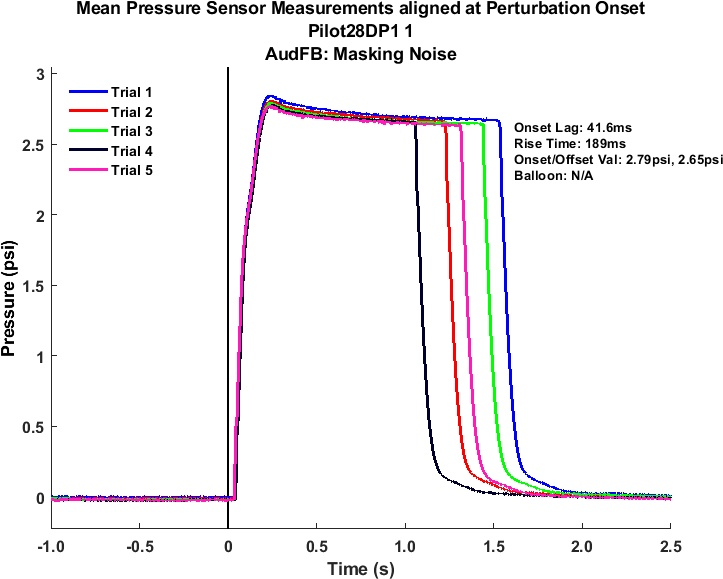
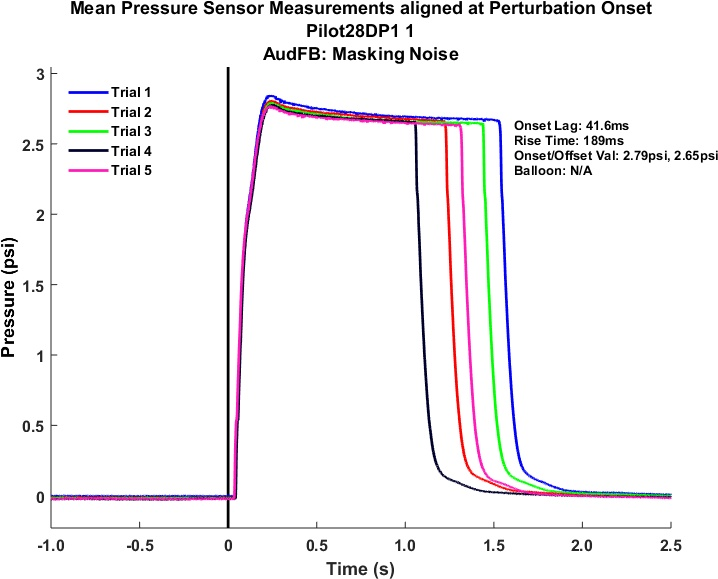
naming convention and fixed title
Making sure that the titles are appropriate without any weird subscripts, and so they dont get cut off

diff --git a/Analysis/dfRunSubjPlotting.m b/Analysis/dfRunSubjPlotting.m
@@ -11,9 +11,9 @@ function dfRunSubjPlotting()
 
 close all;
 sPlt.project       = 'Dissociating-Role-of-Feedback-in-Voice-Motor-Control';
-sPlt.participants  = {'Pilot0'}; %List of multiple participants.
+sPlt.participants  = {'Pilot28'}; %List of multiple participants.
 sPlt.numPart       = length(sPlt.participants);
-sPlt.runs          = {'DP3_1'}; %All runs to consider 
+sPlt.runs          = {'DP1_1'}; %All runs to consider 
 sPlt.numRuns       = length(sPlt.runs);
 dirs               = dfDirs(sPlt.project);
 
@@ -21,7 +21,7 @@ dirs               = dfDirs(sPlt.project);
 sv2File                      = 1;
 sPlt.drawDAQAll              = 0; % All signals recorded by the NIDAQ
 sPlt.drawDAQPresMic          = 0; % Pressure vs Microphone Data
-sPlt.drawDAQAlignedPressure  = 1; % Superimposed Pressure recordings from perturbed trials
+sPlt.drawDAQAlignedPressure  = 0; % Superimposed Pressure recordings from perturbed trials
 sPlt.drawMeanTrial_PertCont  = 1; % Mean Trials Microphone input. Control vs Perturbed Trials
 sPlt.drawMeanTrial_MicHead  = 0; % Mean Perturbed Trials. Microphone vs Headphones
 

diff --git a/Analysis/drawAllTrialMicf0.m b/Analysis/drawAllTrialMicf0.m
@@ -12,6 +12,8 @@ time             = res.timef0;
 sigs             = res.audioMf0TrialPert;
 limits           = res.limitsA;
 
+curSess(strfind(curSess, '_')) = ' ';
+
 plotpos = [10 100];
 plotdim = [1600 800];
 InterTrialf0 = figure('Color', [1 1 1]);

diff --git a/Analysis/drawMeanTrialMicf0.m b/Analysis/drawMeanTrialMicf0.m
@@ -27,6 +27,7 @@ limits           = res.limitsAmean;
 statSM = round(10*res.respVarM(2))/10;
 statRM = round(10*res.respVarM(3))/10;
 statRP = round(res.respVarM(4));
+curSess(strfind(curSess, '_')) = ' ';
 
 lgdCurv = [];
 lgdLabl = {};
